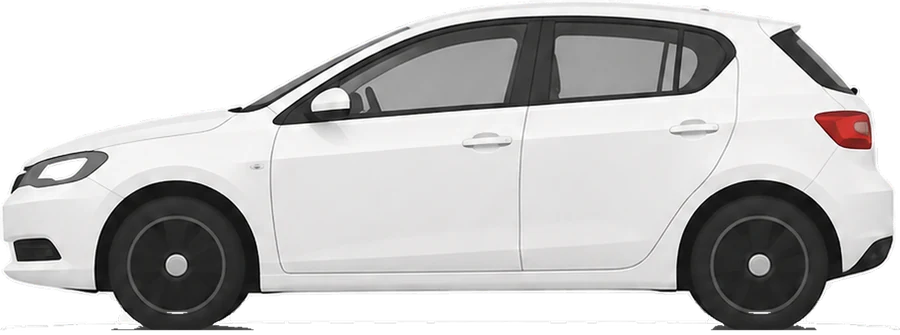
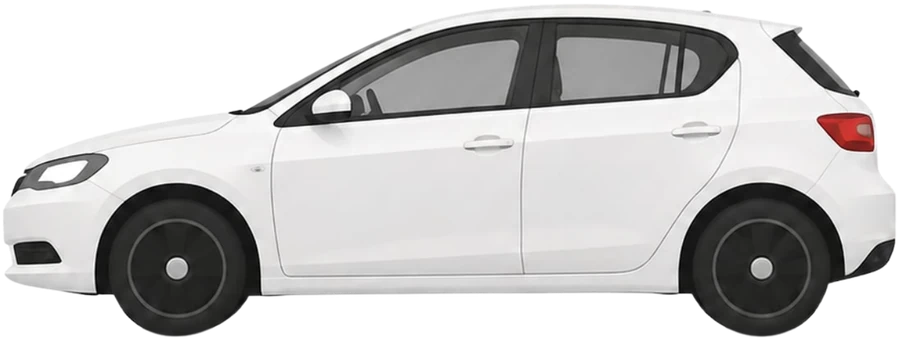
chore(web): replace car silhouettes with cleaner hi-res renders
The redone source renders (1350x1080, transparent, no baked shadow, no white
matte) are higher quality than the first batch. Make polish-cars.py adaptive:
it now detects and only applies a defringe when there is a real white halo, and
only removes a ground shadow when one is actually present — so clean sources are
just trimmed, scaled (LANCZOS, max 900px) and re-encoded WebP q90 (~25-33KB).

diff --git a/apps/web/scripts/polish-cars.py b/apps/web/scripts/polish-cars.py
@@ -34,44 +34,61 @@ INK = (7, 16, 12)  # brand ink #07100C — the scene the cars sit on
 DEFAULT_MAX_W = 900
 
 
+def detect_white_halo(rgb: np.ndarray, a: np.ndarray) -> bool:
+    """A halo from a white-matte cut shows as a UNIFORMLY bright anti-aliased edge ring."""
+    partial = (a > 0.0) & (a < 0.98)
+    if partial.sum() < 80:
+        return False
+    brightness = rgb[partial].mean(axis=1)
+    return float(brightness.mean()) > 205.0 and float((brightness > 200).mean()) > 0.6
+
+
+def detect_ground_shadow(rgb: np.ndarray, a: np.ndarray, h: int, w: int) -> bool:
+    """A baked shadow is a wide near-opaque desaturated grey band in the bottom rows."""
+    value = rgb.max(axis=2)
+    sat = value - rgb.min(axis=2)
+    rows = np.arange(h)[:, None]
+    band = rows > h * 0.95
+    grey = (a > 0.7) & (value >= 90.0) & (value <= 200.0) & (sat < 28.0)
+    return int((band & grey).sum()) > int(0.25 * w)
+
+
 def polish(src: Path, dst: Path, max_w: int) -> Image.Image:
     im = Image.open(src).convert("RGBA")
     arr = np.asarray(im).astype(np.float64)
     h, w = arr.shape[:2]
     rgb = arr[..., :3].copy()
     a = arr[..., 3] / 255.0
+    notes = []
 
-    # 1) Defringe the white matte: O = a*C + (1-a)*255  →  recover the true colour C.
-    partial = (a > 0.0) & (a < 1.0)
-    a_safe = np.where(a == 0.0, 1.0, a)
-    inv = (1.0 - a) * 255.0
-    recovered = np.clip((rgb - inv[..., None]) / a_safe[..., None], 0, 255)
-    rgb = np.where(partial[..., None], recovered, rgb)
+    # 1) Defringe — ONLY if the cut left a white-matte halo. A clean cut on transparent
+    #    already has true edge colours, so defringing it would wrongly darken the edges.
+    if detect_white_halo(rgb, a):
+        partial = (a > 0.0) & (a < 1.0)
+        a_safe = np.where(a == 0.0, 1.0, a)
+        inv = (1.0 - a) * 255.0
+        recovered = np.clip((rgb - inv[..., None]) / a_safe[..., None], 0, 255)
+        rgb = np.where(partial[..., None], recovered, rgb)
+        notes.append("defringed")
 
-    value = rgb.max(axis=2)
-    sat = value - rgb.min(axis=2)
-    rows = np.arange(h)[:, None]
-
-    # 2) Drop the baked ground shadow. The ground is flat, so the cut is one horizontal line.
-    #    Find the lowest solid-black tyre pixel, then cut a few px ABOVE it: that also removes
-    #    the dark contact-shadow core (which is the same near-black as a tyre and can't be told
-    #    apart by colour), at the cost of an invisible ~5px flat on the very bottom of the tyres.
-    tyre_ys = np.where((a > 0.85) & (value < 60.0))[0]
-    if tyre_ys.size:
-        cut_y = int(np.quantile(tyre_ys, 0.999)) - 5
-        a = np.where(rows > cut_y, 0.0, a)
-        # Above the cut, wipe the lighter grey penumbra wisps without touching the black tyres
-        # (value<60, kept) or the bright-white body (value>215, kept).
-        band = (rows <= cut_y) & (rows > cut_y - 22)
-        greyish = (sat < 30.0) & (value >= 80.0) & (value <= 215.0)
-        a = np.where(band & greyish, 0.0, a)
+    # 2) Drop a baked ground shadow — ONLY if present. Find the lowest solid-black tyre pixel
+    #    and cut a few px above it (also removes the same-black contact-shadow core), then wipe
+    #    the lighter grey penumbra. Skipped for already-clean sources so tyres stay intact.
+    if detect_ground_shadow(rgb, a, h, w):
+        value = rgb.max(axis=2)
+        sat = value - rgb.min(axis=2)
+        rows = np.arange(h)[:, None]
+        tyre_ys = np.where((a > 0.85) & (value < 60.0))[0]
+        if tyre_ys.size:
+            cut_y = int(np.quantile(tyre_ys, 0.999)) - 5
+            a = np.where(rows > cut_y, 0.0, a)
+            band = (rows <= cut_y) & (rows > cut_y - 22)
+            greyish = (sat < 30.0) & (value >= 80.0) & (value <= 215.0)
+            a = np.where(band & greyish, 0.0, a)
+            notes.append("de-shadowed")
 
     out = np.dstack([rgb, a * 255.0]).astype(np.uint8)
     img = Image.fromarray(out, "RGBA")
-
-    # Feather the freshly cut edge so it reads smooth, not stepped.
-    alpha = img.getchannel("A").filter(ImageFilter.GaussianBlur(0.5))
-    img.putalpha(alpha)
 
     # 3) Trim to the car, then downscale crisply for a smaller, retina-sharp file.
     bbox = img.getchannel("A").getbbox()
@@ -84,9 +101,10 @@ def polish(src: Path, dst: Path, max_w: int) -> Image.Image:
         img = img.resize((max_w, new_h), Image.LANCZOS)
 
     dst.parent.mkdir(parents=True, exist_ok=True)
-    img.save(dst, "WEBP", quality=88, method=6)  # alpha-aware, ~1/4 the size of PNG at equal quality
+    img.save(dst, "WEBP", quality=90, method=6)  # alpha-aware, ~1/4 the size of PNG at equal quality
     kb = dst.stat().st_size // 1024
-    print(f"  {src.name:14s} -> public/cars/{dst.name:14s} {img.size[0]}x{img.size[1]}  {kb} KB")
+    tag = f"  [{', '.join(notes)}]" if notes else "  [clean: scaled only]"
+    print(f"  {src.name:14s} -> public/cars/{dst.name:14s} {img.size[0]}x{img.size[1]}  {kb} KB{tag}")
     return img
 
 
